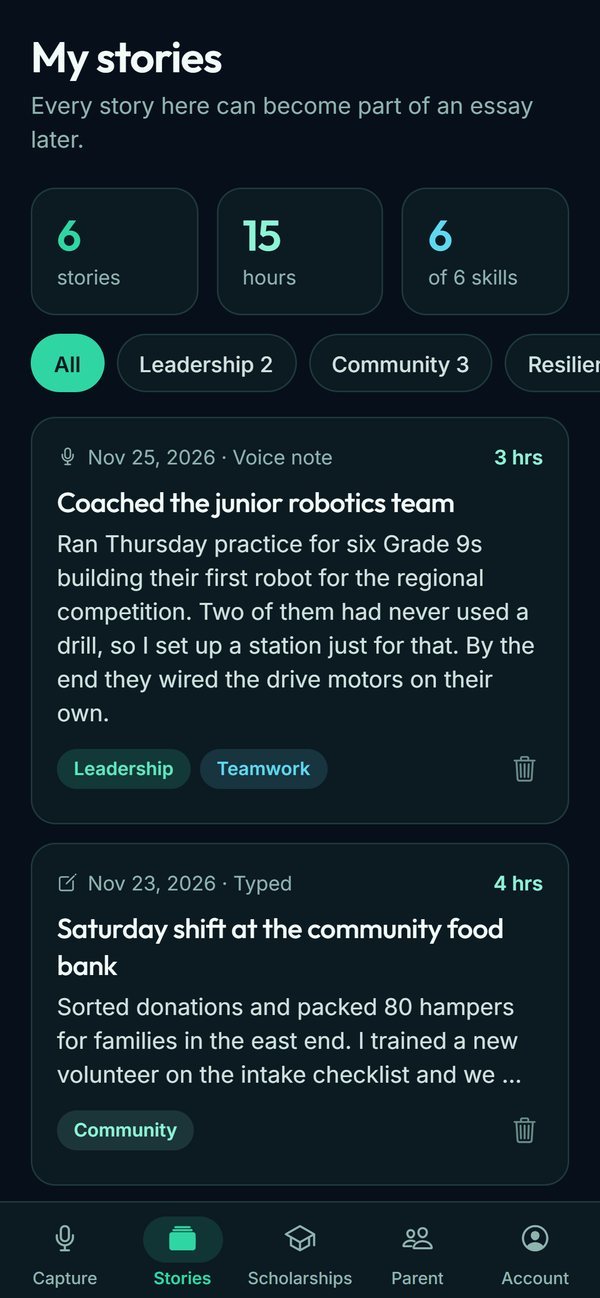
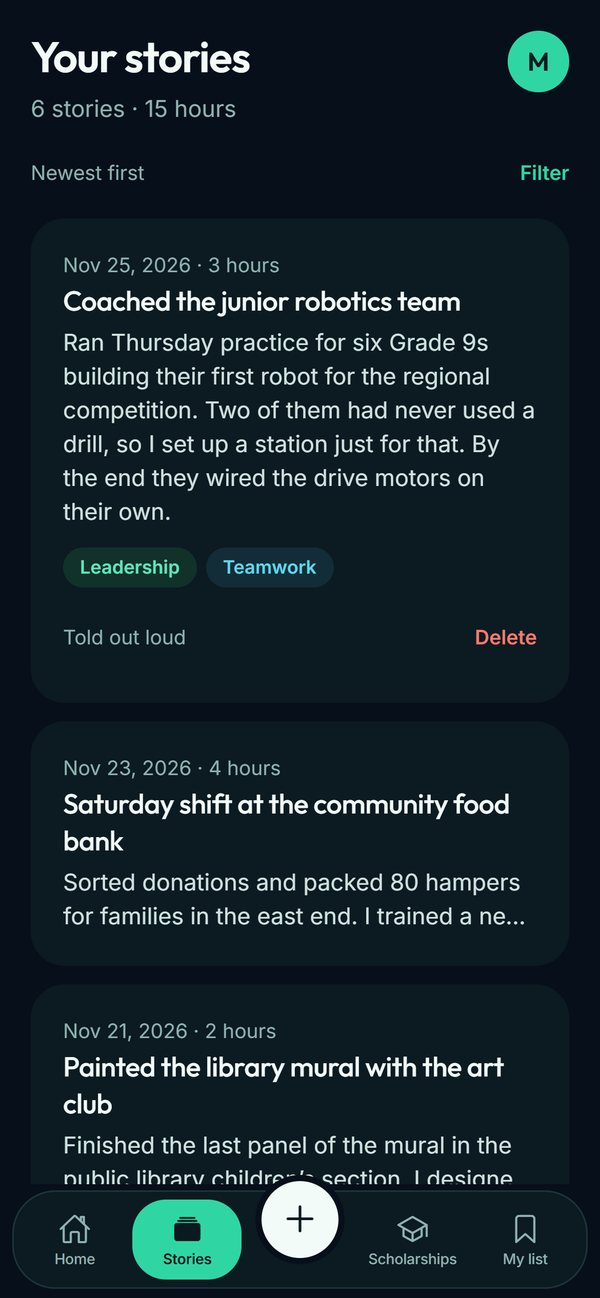
Ascea page: new app design screenshots

Changed region(s): [[0.03, 0.0, 1.0, 1.0], [0.87, 0.1233, 0.96, 0.1541]]

diff --git a/ascea/index.html b/ascea/index.html
@@ -13,17 +13,17 @@
 <meta property="og:url" content="https://kgmstudio.ca/ascea/">
 <meta property="og:title" content="Ascea: turn what you do into scholarships · KGM Studio">
 <meta property="og:description" content="Ascea helps Canadian high-school students log what they do, match it to real scholarships and draft essays from their own stories. Coming to iPhone.">
-<meta property="og:image" content="https://kgmstudio.ca/assets/ascea/03-scholarship-matches.jpg">
+<meta property="og:image" content="https://kgmstudio.ca/assets/ascea/08-home.jpg">
 <meta property="og:image:alt" content="Ascea: turn what you do into scholarships · KGM Studio">
 <meta name="twitter:card" content="summary_large_image">
 <meta name="twitter:title" content="Ascea: turn what you do into scholarships · KGM Studio">
 <meta name="twitter:description" content="Ascea helps Canadian high-school students log what they do, match it to real scholarships and draft essays from their own stories. Coming to iPhone.">
-<meta name="twitter:image" content="https://kgmstudio.ca/assets/ascea/03-scholarship-matches.jpg">
+<meta name="twitter:image" content="https://kgmstudio.ca/assets/ascea/08-home.jpg">
 <meta name="theme-color" content="#0B0D14">
 <link rel="icon" href="../assets/brand/favicon.ico" sizes="any">
 <link rel="icon" href="../assets/brand/mark-ember.svg" type="image/svg+xml">
 <link rel="apple-touch-icon" href="../assets/brand/icon-192.png">
-<script type="application/ld+json">{"@context":"https://schema.org","@graph":[{"@type":"ProfessionalService","@id":"https://kgmstudio.ca/#studio","name":"KGM Studio","alternateName":"kgmstudio","url":"https://kgmstudio.ca/","logo":"https://kgmstudio.ca/assets/brand/icon-512.png","image":"https://kgmstudio.ca/assets/brand/og-share.jpg","email":"hello@kgmstudio.ca","description":"A Toronto studio that designs and builds websites, online stores, mobile apps and brands.","address":{"@type":"PostalAddress","addressLocality":"Toronto","addressRegion":"ON","addressCountry":"CA"},"areaServed":["Canada","United States"],"knowsAbout":["Web design","Web development","Shopify","Ecommerce","Mobile app development","Brand identity","SEO","Website migration"]},{"@type":"WebPage","@id":"https://kgmstudio.ca/ascea/","url":"https://kgmstudio.ca/ascea/","name":"Ascea: turn what you do into scholarships · KGM Studio","description":"Ascea helps Canadian high-school students log what they do, match it to real scholarships and draft essays from their own stories. Coming to iPhone.","inLanguage":"en-CA","isPartOf":{"@id":"https://kgmstudio.ca/#website"},"about":{"@id":"https://kgmstudio.ca/#studio"},"primaryImageOfPage":"https://kgmstudio.ca/assets/ascea/03-scholarship-matches.jpg"},{"@type":"BreadcrumbList","itemListElement":[{"@type":"ListItem","position":1,"name":"Home","item":"https://kgmstudio.ca/"},{"@type":"ListItem","position":2,"name":"Ascea","item":"https://kgmstudio.ca/ascea/"}]}]}</script>
+<script type="application/ld+json">{"@context":"https://schema.org","@graph":[{"@type":"ProfessionalService","@id":"https://kgmstudio.ca/#studio","name":"KGM Studio","alternateName":"kgmstudio","url":"https://kgmstudio.ca/","logo":"https://kgmstudio.ca/assets/brand/icon-512.png","image":"https://kgmstudio.ca/assets/brand/og-share.jpg","email":"hello@kgmstudio.ca","description":"A Toronto studio that designs and builds websites, online stores, mobile apps and brands.","address":{"@type":"PostalAddress","addressLocality":"Toronto","addressRegion":"ON","addressCountry":"CA"},"areaServed":["Canada","United States"],"knowsAbout":["Web design","Web development","Shopify","Ecommerce","Mobile app development","Brand identity","SEO","Website migration"]},{"@type":"WebPage","@id":"https://kgmstudio.ca/ascea/","url":"https://kgmstudio.ca/ascea/","name":"Ascea: turn what you do into scholarships · KGM Studio","description":"Ascea helps Canadian high-school students log what they do, match it to real scholarships and draft essays from their own stories. Coming to iPhone.","inLanguage":"en-CA","isPartOf":{"@id":"https://kgmstudio.ca/#website"},"about":{"@id":"https://kgmstudio.ca/#studio"},"primaryImageOfPage":"https://kgmstudio.ca/assets/ascea/08-home.jpg"},{"@type":"BreadcrumbList","itemListElement":[{"@type":"ListItem","position":1,"name":"Home","item":"https://kgmstudio.ca/"},{"@type":"ListItem","position":2,"name":"Ascea","item":"https://kgmstudio.ca/ascea/"}]}]}</script>
 <link rel="preconnect" href="https://fonts.googleapis.com">
 <link rel="stylesheet" href="https://fonts.googleapis.com/css2?family=Lexend:wght@200;300;400;500&family=JetBrains+Mono:wght@400;500&display=swap">
 <link rel="stylesheet" href="../assets/site.css?v=16">
@@ -73,7 +73,7 @@
     </div>
     <div class="phones" aria-hidden="true">
       <figure class="phone-frame back"><img src="../assets/ascea/03-scholarship-matches.jpg" width="600" height="1298" alt=""></figure>
-      <figure class="phone-frame front"><img src="../assets/ascea/01-capture.jpg" width="600" height="1298" alt=""></figure>
+      <figure class="phone-frame front"><img src="../assets/ascea/08-home.jpg" width="600" height="1298" alt=""></figure>
     </div>
   </div>
 </section>
@@ -85,16 +85,16 @@
   </div>
   <div class="ascea-steps">
     <article class="ascea-step">
-      <figure class="phone-frame"><img src="../assets/ascea/01-capture.jpg" width="600" height="1298" alt="Ascea's capture screen with a large Tap to talk button" loading="lazy"></figure>
+      <figure class="phone-frame"><img src="../assets/ascea/01-capture.jpg" width="600" height="1298" alt="Ascea's capture screen: What did you do today? with a large Tap to talk button" loading="lazy"></figure>
       <span class="pn">01</span>
       <h3>Tell your story</h3>
-      <p>Tap to talk, type, or snap a photo of a certificate. Ascea writes it up and suggests a title, the skills you showed and the hours it took. You can change anything.</p>
+      <p>Tap the + and just say what you did. It takes about 30 seconds. You can also type or add a photo of a certificate. Ascea suggests a title, the skills you showed and the hours it took, and you can change anything.</p>
     </article>
     <article class="ascea-step">
-      <figure class="phone-frame"><img src="../assets/ascea/03-scholarship-matches.jpg" width="600" height="1298" alt="Scholarship matches sorted by fit, with fit percentages and award amounts" loading="lazy"></figure>
+      <figure class="phone-frame"><img src="../assets/ascea/03-scholarship-matches.jpg" width="600" height="1298" alt="A calm list of scholarships picked for a Grade 11 student in Ontario, with amounts and due dates" loading="lazy"></figure>
       <span class="pn">02</span>
       <h3>Match real scholarships</h3>
-      <p>178 awards from official pages: 14 open across Canada and 164 by province or territory, filtered to your grade. Sort by best fit, money per hour of effort, or deadline.</p>
+      <p>178 awards from official pages: 14 open across Canada and 164 by province or territory, picked for your grade and province. Sort by best match, most money per hour of work, or soonest deadline.</p>
     </article>
     <article class="ascea-step">
       <figure class="phone-frame"><img src="../assets/ascea/05-essay-draft.jpg" width="600" height="1298" alt="An essay draft built from the student's own stories, ready to edit" loading="lazy"></figure>
@@ -106,6 +106,26 @@
 </section>
 
 <section class="panel glow ascea">
+  <div class="chapter">
+    <div class="stack">
+      <span class="eyebrow">Calm by design</span>
+      <h2 class="h2"><span class="grad">Opens to what matters,</span> <span class="em">nothing more</span></h2>
+      <p class="lead">Ascea is built for students opening it for the first time. Home shows your week, one good match and what's coming up. Everything else is a tap away.</p>
+      <ul class="ticks">
+        <li>A weekly recap: stories logged and hours put in.</li>
+        <li>Upcoming deadlines with a simple countdown, so nothing sneaks up.</li>
+        <li>My list keeps what you've saved, started and sent in one place.</li>
+        <li>Light and dark themes, switched in Settings.</li>
+      </ul>
+    </div>
+    <div class="phones small" aria-hidden="true">
+      <figure class="phone-frame back"><img src="../assets/ascea/08-home-light.jpg" width="600" height="1298" alt="" loading="lazy"></figure>
+      <figure class="phone-frame front"><img src="../assets/ascea/08-home.jpg" width="600" height="1298" alt="" loading="lazy"></figure>
+    </div>
+  </div>
+</section>
+
+<section class="panel cream ascea">
   <div class="chapter flip">
     <div class="stack">
       <span class="eyebrow">For parents</span>
@@ -121,7 +141,7 @@
   </div>
 </section>
 
-<section class="panel cream ascea">
+<section class="panel glow ascea">
   <div class="head">
     <span class="eyebrow">Privacy by design</span>
     <h2 class="h2"><span class="grad">Built for students,</span> <span class="em">so built carefully</span></h2>
@@ -137,7 +157,7 @@
   <p class="related" style="text-align:center;margin-top:28px">Read the <a href="privacy.html">Ascea privacy policy</a> · <a href="support.html">Support</a></p>
 </section>
 
-<section class="panel glow ascea">
+<section class="panel cream ascea">
   <div class="split" style="align-items:center">
     <div class="stack">
       <span class="eyebrow">Built by KGM Studio</span>
@@ -147,8 +167,8 @@
       <div><a class="btn" href="../services.html#apps">Our app work<span class="arr"><svg><use href="#arrow"/></svg></span></a></div>
     </div>
     <div class="phones small" aria-hidden="true">
-      <figure class="phone-frame back"><img src="../assets/ascea/02-stories.jpg" width="600" height="1298" alt="" loading="lazy"></figure>
-      <figure class="phone-frame front"><img src="../assets/ascea/04-scholarship-detail.jpg" width="600" height="1298" alt="" loading="lazy"></figure>
+      <figure class="phone-frame back"><img src="../assets/ascea/11-settings.jpg" width="600" height="1298" alt="" loading="lazy"></figure>
+      <figure class="phone-frame front"><img src="../assets/ascea/09-applications.jpg" width="600" height="1298" alt="" loading="lazy"></figure>
     </div>
   </div>
 </section>
